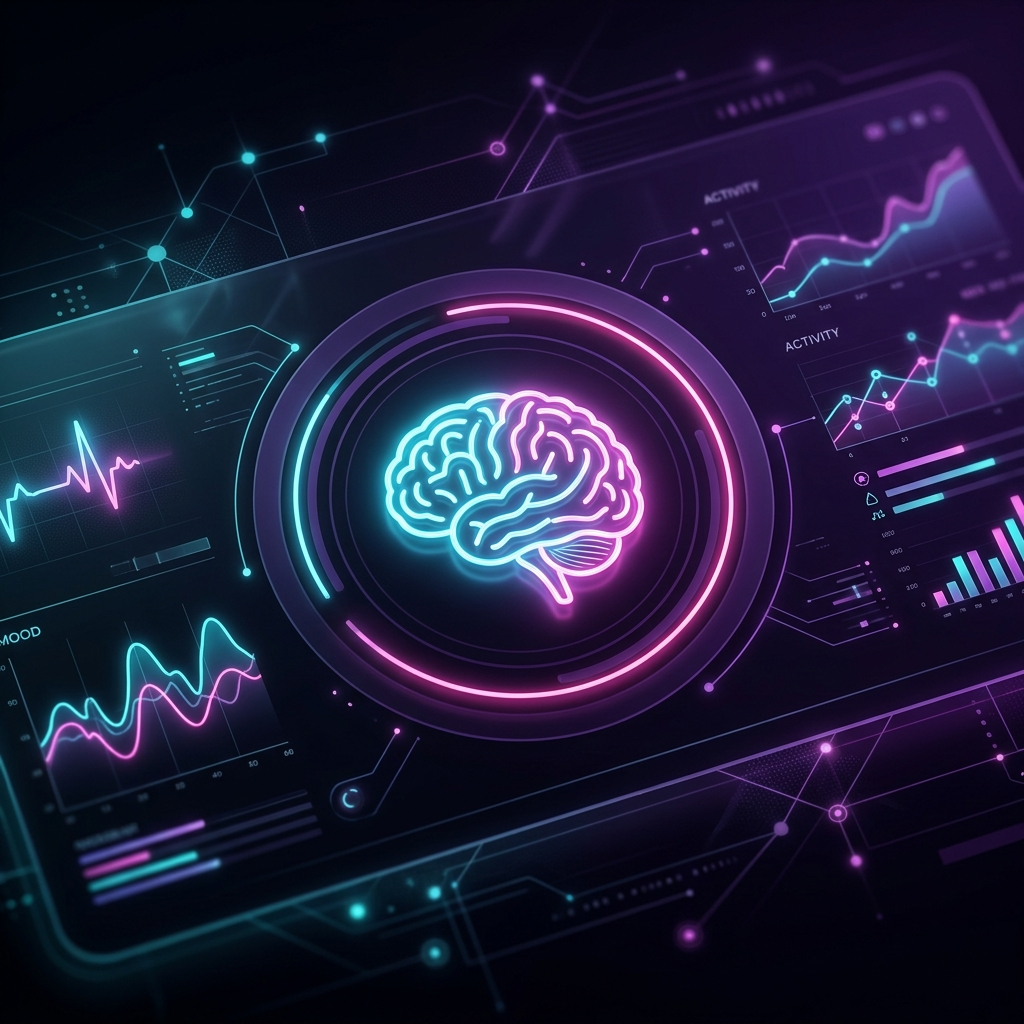
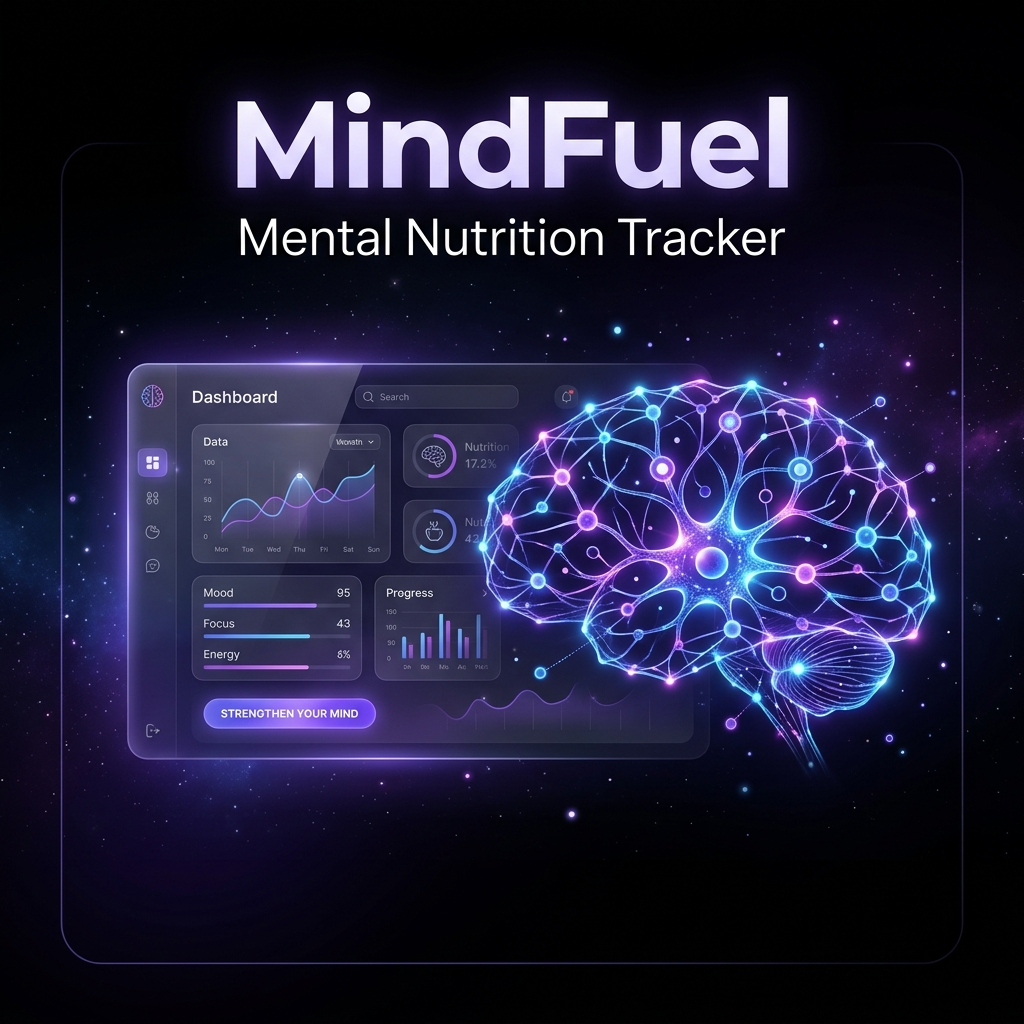
chore: optimize nextjs performance and update og image

diff --git a/web/next.config.ts b/web/next.config.ts
@@ -114,6 +114,12 @@ const nextConfig: NextConfig = {
   },
 
   serverExternalPackages: ['@langchain/langgraph', '@langchain/anthropic', '@langchain/core'],
+  
+  // ── Performance Optimizations ──
+  reactCompiler: true,
+  experimental: {
+    optimizePackageImports: ['lucide-react', 'recharts', 'date-fns', '@radix-ui/react-icons'],
+  },
 }
 
 export default nextConfig